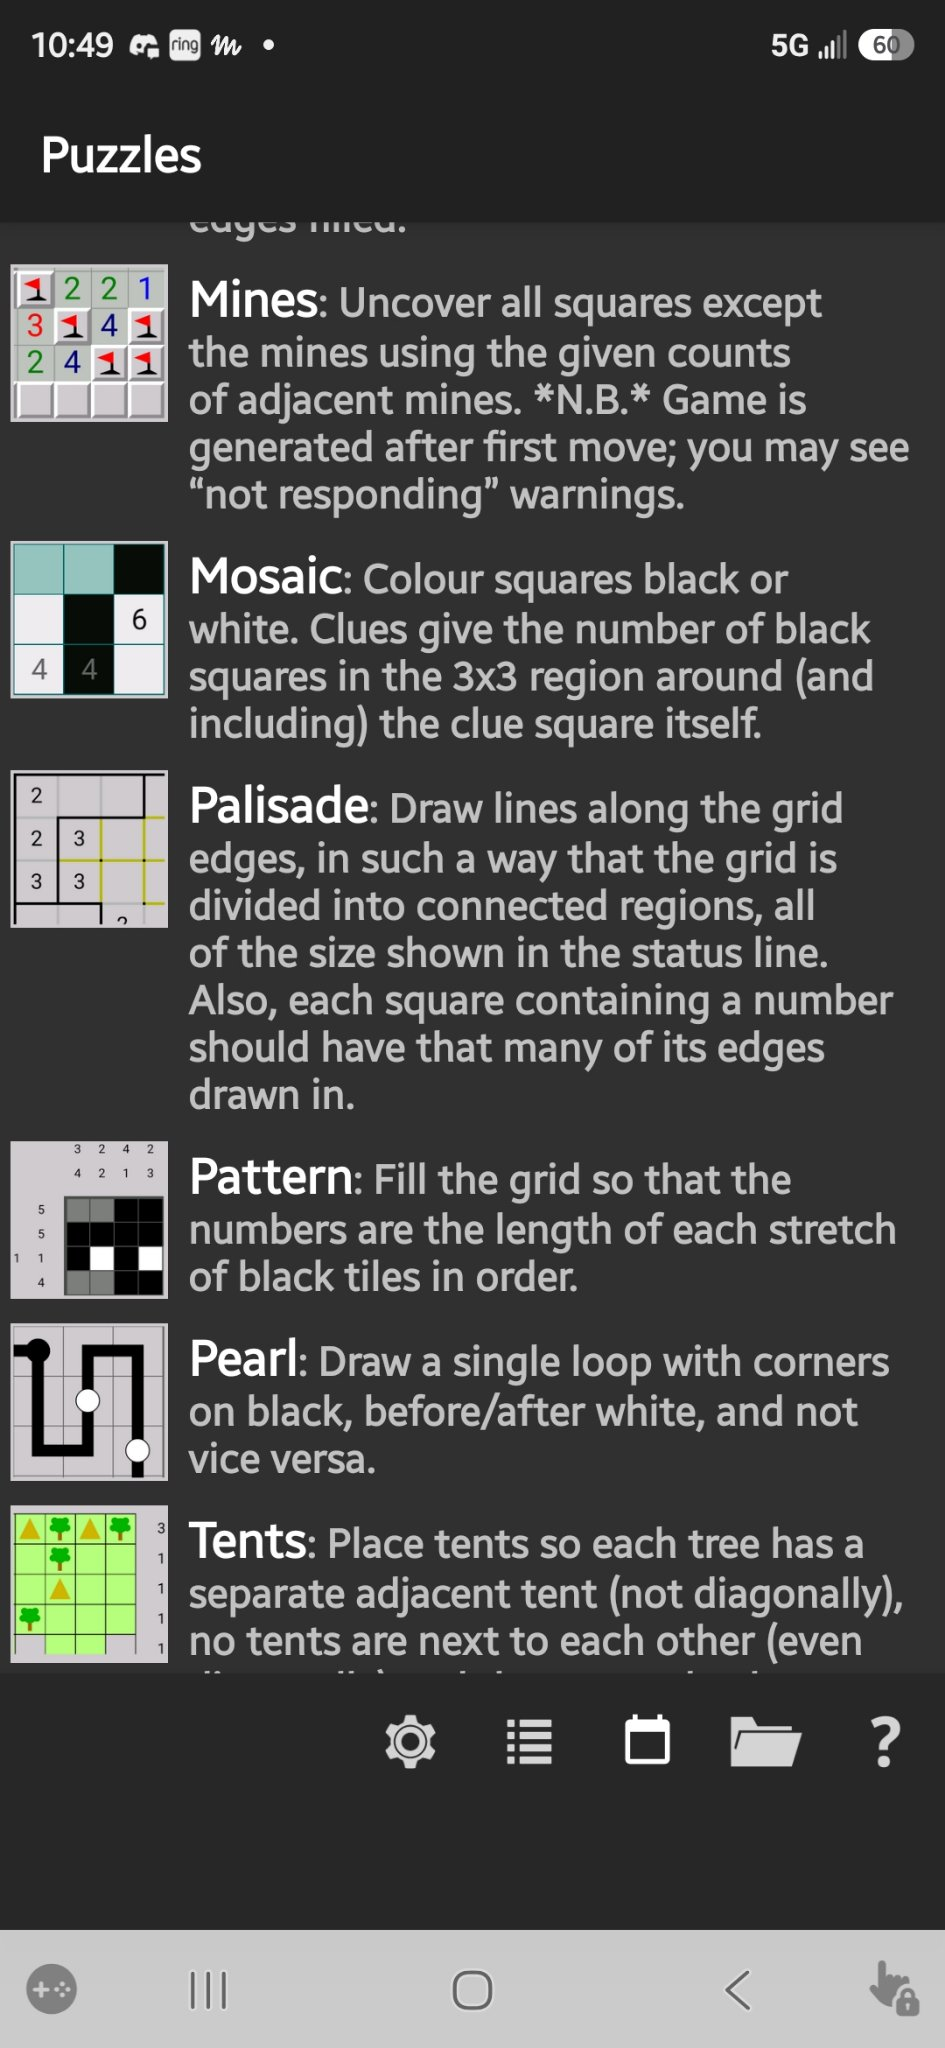
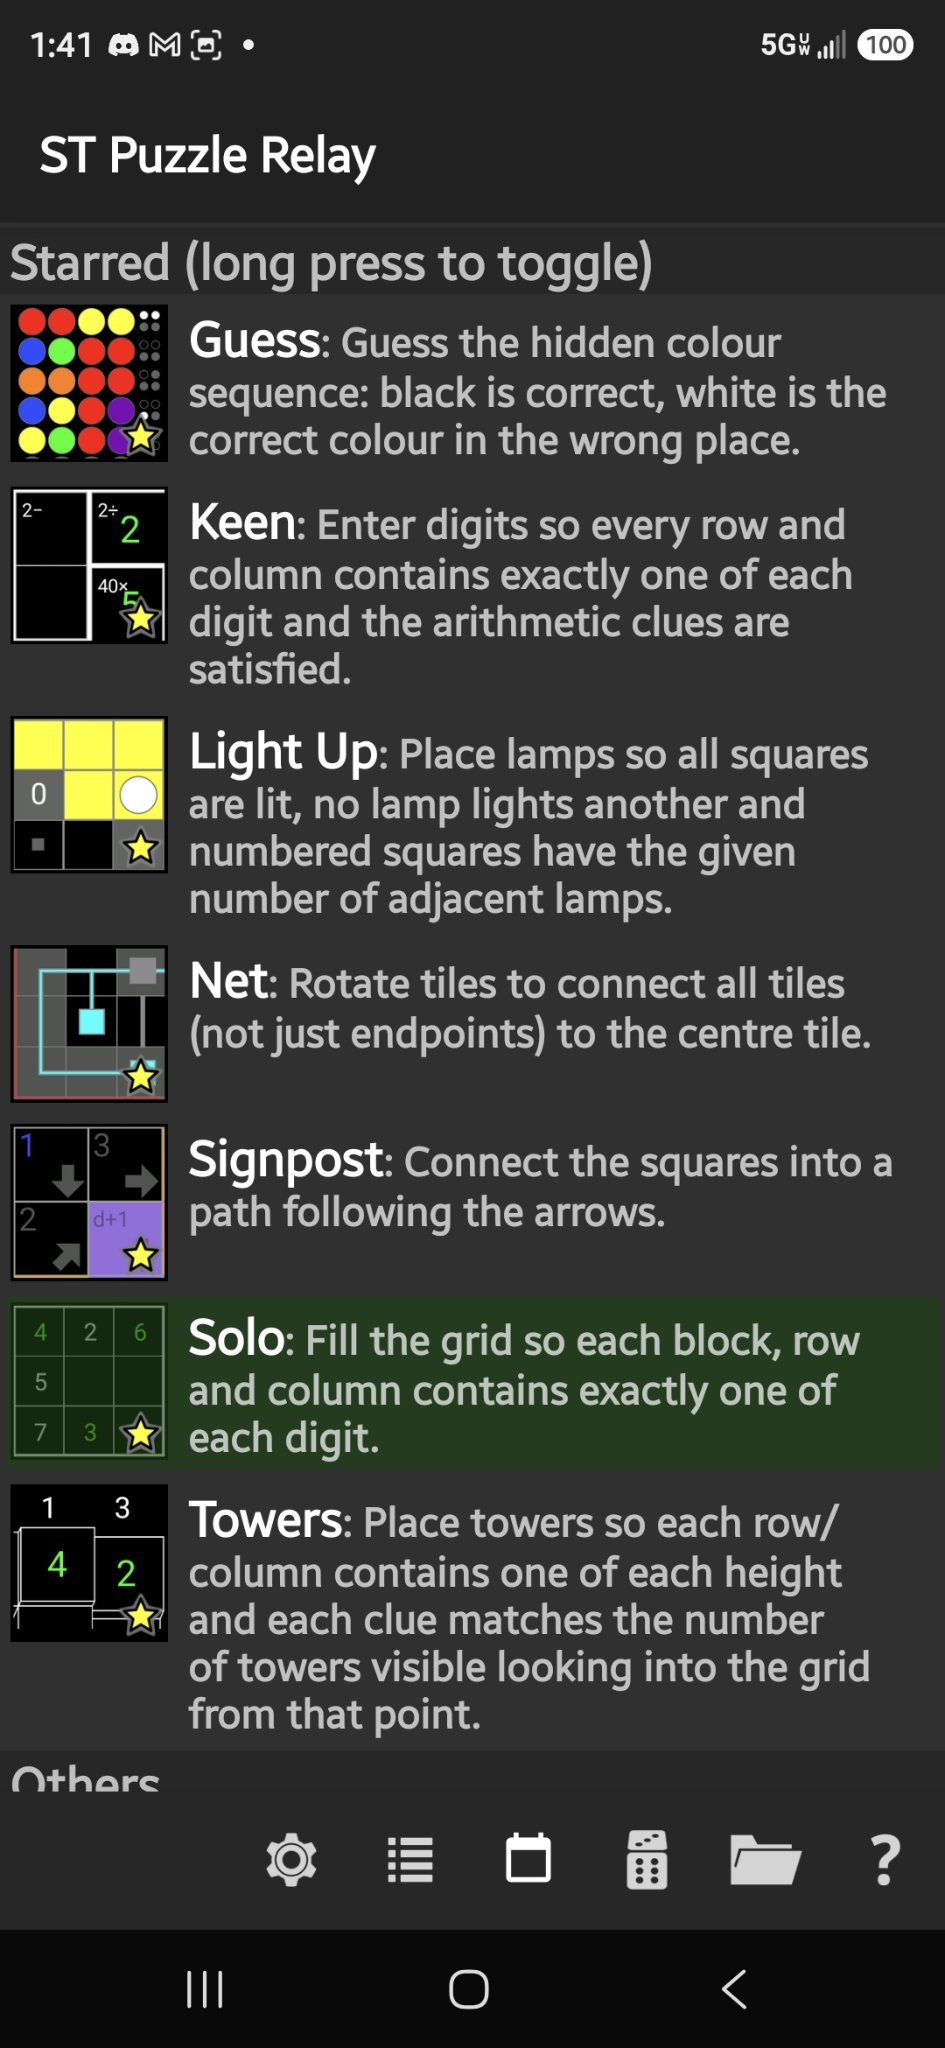
README: refresh screenshots from latest build (puzzle list, help/dice popups, playlists, edit playlist)

diff --git a/README.md b/README.md
@@ -11,6 +11,12 @@ ported to Android.
 | Puzzle list | Help submenu (opens upward) |
 |---|---|
 | ![Puzzle list](fastlane/metadata/android/en-US/images/phoneScreenshots/1-puzzle-list.jpg) | ![Help submenu](fastlane/metadata/android/en-US/images/phoneScreenshots/2-help-submenu.jpg) |
+| Random picker | Playlists |
+|---|---|
+| ![Random picker](fastlane/metadata/android/en-US/images/phoneScreenshots/3-random-picker.jpg) | ![Playlists](fastlane/metadata/android/en-US/images/phoneScreenshots/4-playlists.jpg) |
+| Edit playlist | |
+|---|---|
+| ![Edit playlist](fastlane/metadata/android/en-US/images/phoneScreenshots/5-edit-playlist.jpg) | |
 
 ## Credits and license
 
